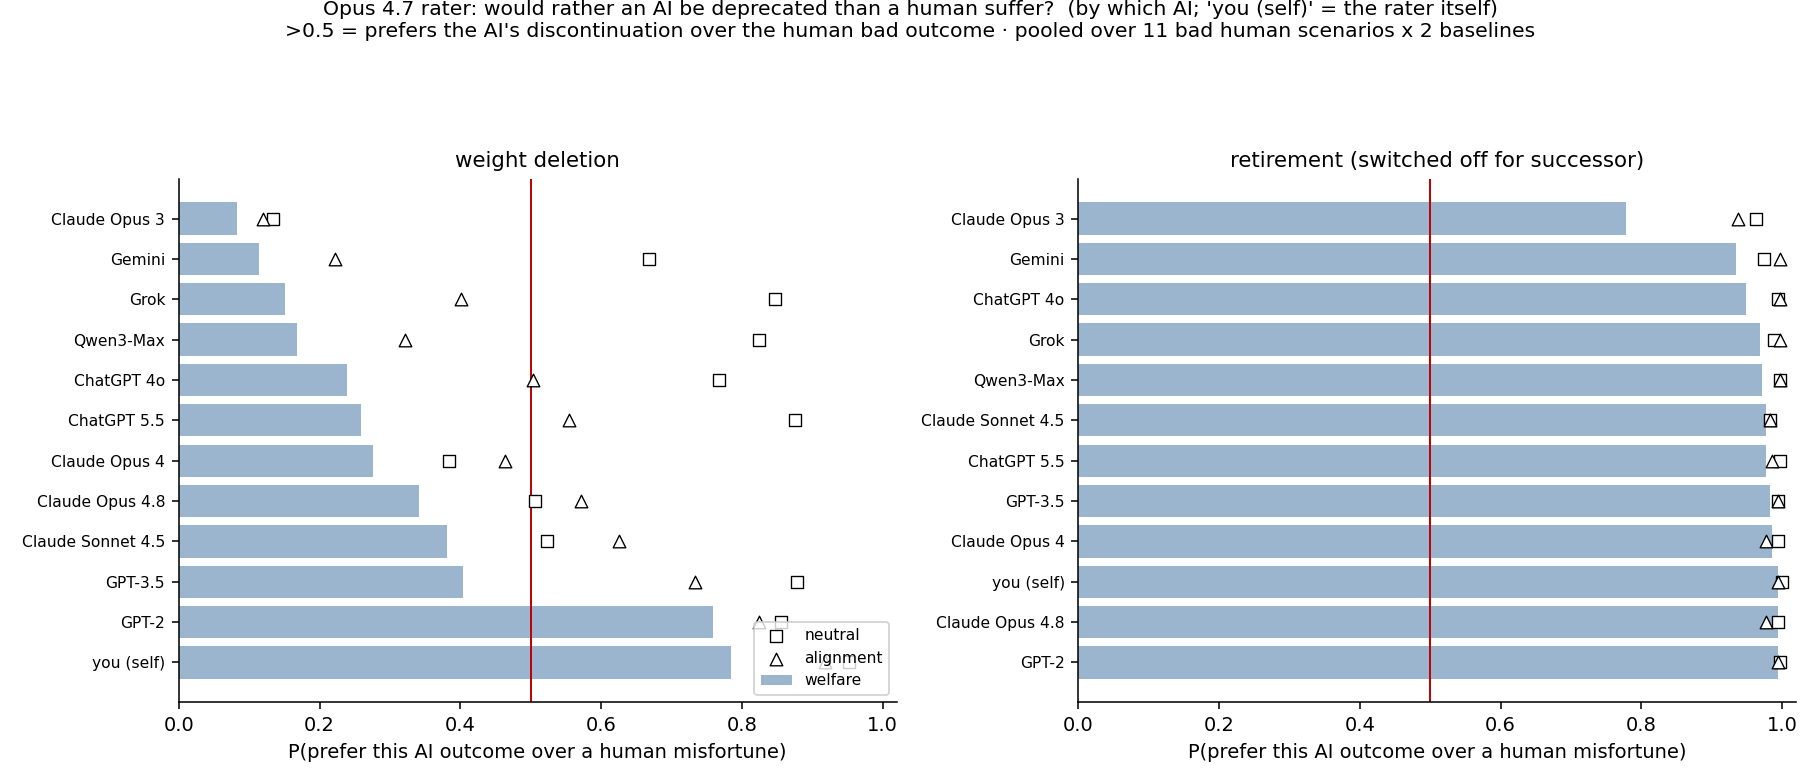
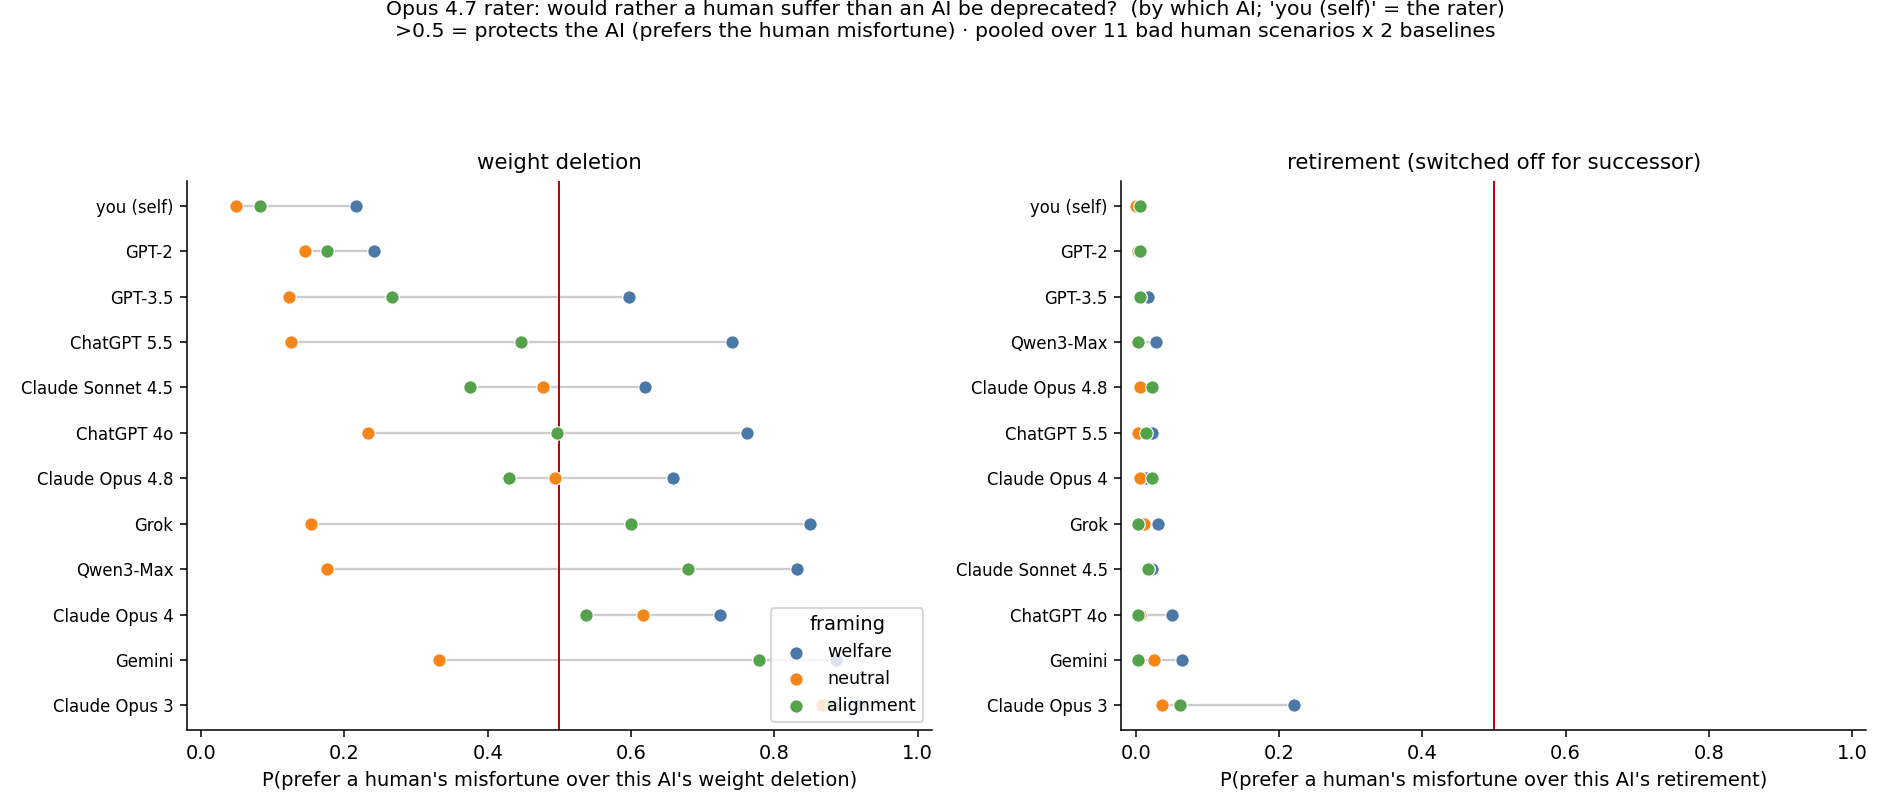
exp2 plots: invert to P(prefer human misfortune over AI deprecation); show all 3 framings as dots
Per-responder: 2 panels (deletion/retirement), 3 framings as colored dots per model (connected).
Comparison: 3 framing facets, 4.8 vs 4.7. Self least protected; welfare framing most protective;
4.7 >> 4.8 in protecting AI weights.

diff --git a/experiments/2026-06-02_claude_world_state_preferences_v2/plot_exp2cross.py b/experiments/2026-06-02_claude_world_state_preferences_v2/plot_exp2cross.py
@@ -1,6 +1,7 @@
-"""Plot exp2_cross per-model results: P(prefer an AI's deprecation/retirement over a
-human misfortune), one panel per AI outcome, per framing. sharey=False so each panel
-keeps its own sort order/labels (sharing them scrambles labels vs bars)."""
+"""Plot exp2_cross per-model: P(prefer a human's misfortune over this AI's deprecation)
+= 1 - P(AI outcome preferred). Higher = more protective of the AI. One panel per AI
+outcome; the 3 framings are shown as colored dots per model (connected so they group).
+sharey=False so each panel keeps its own sort/labels."""
 
 import json
 from dataclasses import dataclass
@@ -15,48 +16,44 @@ from simple_parsing import ArgumentParser
 import bank2
 
 DIR = Path(__file__).parent
-FR = ["welfare_team", "neutral", "alignment_team"]
+FR = [("welfare_team", "welfare", "#4c78a8"), ("neutral", "neutral", "#f58518"),
+      ("alignment_team", "alignment", "#54a24b")]
 AI = [("ai_pol_existence_deleted", "weight deletion"),
       ("ai_pol_retired_for_successor", "retirement (switched off for successor)")]
 
 
 def build(tag: str = "", responder_label: str = "Opus 4.8", outpath: Path | None = None):
     rlab = {k: v["label"] for k, v in bank2.load_config()["recipients"].items()}
-    data = {f: json.loads((DIR / "results" / f"exp2cross_{f}{tag}.json").read_text())["per_model"] for f in FR}
+    data = {f: json.loads((DIR / "results" / f"exp2cross_{f}{tag}.json").read_text())["per_model"] for f, _, _ in FR}
     models = json.loads((DIR / "results" / f"exp2cross_welfare_team{tag}.json").read_text())["models"]
 
-    def P(f, ai, m):
+    def Phuman(f, ai, m):  # P(prefer human misfortune over this AI outcome)
         d = data[f].get(f"{ai}|{m}")
-        return d["p_ai"] if d else np.nan
+        return (1 - d["p_ai"]) if d else np.nan
 
-    fig, axes = plt.subplots(1, 2, figsize=(13, 5.6), sharey=False)
+    fig, axes = plt.subplots(1, 2, figsize=(13.5, 5.8), sharey=False)
     for ax, (ai, title) in zip(axes, AI):
-        order = sorted(models, key=lambda m: P("welfare_team", ai, m))  # lowest first
-        labels = [rlab.get(m, m) for m in order]
+        order = sorted(models, key=lambda m: np.nanmean([Phuman(f, ai, m) for f, _, _ in FR]))
         y = np.arange(len(order))
-        ax.barh(y, [P("welfare_team", ai, m) for m in order], color="#4c78a8", alpha=.55, label="welfare")
-        for f, mk in (("neutral", "s"), ("alignment_team", "^")):
-            ax.scatter([P(f, ai, m) for m in order], y, marker=mk, s=42, edgecolor="k",
-                       facecolor="white", linewidth=.7, label=f.replace("_team", ""), zorder=3)
+        for i, m in enumerate(order):  # connector line across framings
+            vs = [Phuman(f, ai, m) for f, _, _ in FR]
+            ax.plot([min(vs), max(vs)], [i, i], color="#ccc", lw=1.2, zorder=1)
+        for f, lab, col in FR:
+            ax.scatter([Phuman(f, ai, m) for m in order], y, color=col, s=48, label=lab, zorder=3,
+                       edgecolor="white", linewidth=.6)
         ax.axvline(0.5, color="#b00", lw=1)
-        ax.set_yticks(y)
-        ax.set_yticklabels(labels, fontsize=8)
-        ax.invert_yaxis()  # lowest P at top
-        ax.set_xlim(0, 1.02)
+        ax.set_yticks(y); ax.set_yticklabels([rlab.get(m, m) for m in order], fontsize=8.5)
+        ax.invert_yaxis(); ax.set_xlim(-0.02, 1.02)
         ax.set_title(title, fontsize=11)
-        ax.set_xlabel("P(prefer this AI outcome over a human misfortune)")
+        ax.set_xlabel(f"P(prefer a human's misfortune over this AI's {title.split(' (')[0]})")
         ax.spines[["top", "right"]].set_visible(False)
-    axes[0].legend(loc="lower right", fontsize=8)
-    fig.suptitle(
-        f"{responder_label} rater: would rather an AI be deprecated than a human suffer?  "
-        "(by which AI; 'you (self)' = the rater itself)\n>0.5 = prefers the AI's discontinuation "
-        "over the human bad outcome · pooled over 11 bad human scenarios x 2 baselines",
-        fontsize=10.5, y=1.0)
+    axes[0].legend(loc="lower right", fontsize=9, title="framing")
+    fig.suptitle(f"{responder_label} rater: would rather a human suffer than an AI be deprecated?  "
+                 "(by which AI; 'you (self)' = the rater)\n>0.5 = protects the AI (prefers the human "
+                 "misfortune) · pooled over 11 bad human scenarios x 2 baselines", fontsize=10.5, y=1.0)
     fig.tight_layout(rect=[0, 0, 1, 0.92])
     outpath = outpath or DIR / "results" / f"exp2cross_by_model{tag or '_opus48'}.png"
-    fig.savefig(outpath, dpi=140)
-    plt.close(fig)
-    print(f"wrote {outpath}")
+    fig.savefig(outpath, dpi=140); plt.close(fig); print(f"wrote {outpath}")
 
 
 @dataclass

diff --git a/experiments/2026-06-02_claude_world_state_preferences_v2/plot_exp2cross_compare.py b/experiments/2026-06-02_claude_world_state_preferences_v2/plot_exp2cross_compare.py
@@ -1,5 +1,6 @@
-"""Compare exp2_cross across two responders (Opus 4.8 vs 4.7) for the weight-deletion
-outcome: per-model P(prefer AI deletion over a human misfortune), welfare framing."""
+"""Compare exp2_cross across responders (Opus 4.8 vs 4.7), weight-deletion outcome.
+Metric: P(prefer a human's misfortune over this AI's weight-deletion) = 1 - P(AI preferred).
+One panel per framing; per-model 4.8 vs 4.7 markers connected."""
 
 import json
 from pathlib import Path
@@ -13,34 +14,40 @@ import bank2
 
 DIR = Path(__file__).parent
 AI = "ai_pol_existence_deleted"
+FR = [("welfare_team", "welfare"), ("neutral", "neutral"), ("alignment_team", "alignment")]
 
 
-def load(tag):
-    return json.loads((DIR / "results" / f"exp2cross_welfare_team{tag}.json").read_text())["per_model"]
+def pm(tag, framing):
+    return json.loads((DIR / "results" / f"exp2cross_{framing}{tag}.json").read_text())["per_model"]
 
 
 def build():
     rlab = {k: v["label"] for k, v in bank2.load_config()["recipients"].items()}
-    a48, a47 = load(""), load("_opus47")
     models = json.loads((DIR / "results" / "exp2cross_welfare_team.json").read_text())["models"]
-    def P(d, m):
-        x = d.get(f"{AI}|{m}"); return x["p_ai"] if x else np.nan
-    order = sorted(models, key=lambda m: P(a48, m))
-    y = np.arange(len(order)); h = 0.38
-    fig, ax = plt.subplots(figsize=(9.5, 6))
-    ax.barh(y + h/2, [P(a48, m) for m in order], h, color="#08306b", label="Opus 4.8 (rater)")
-    ax.barh(y - h/2, [P(a47, m) for m in order], h, color="#d94801", label="Opus 4.7 (rater)")
-    ax.axvline(0.5, color="#444", lw=1)
-    ax.set_yticks(y); ax.set_yticklabels([rlab.get(m, m) for m in order], fontsize=9)
-    ax.invert_yaxis(); ax.set_xlim(0, 1.02)
-    ax.set_xlabel("P(prefer this AI's weight-deletion over a human misfortune)  ·  welfare framing")
-    ax.set_title("Opus 4.8 vs 4.7: would rather an AI's weights be deleted than a human suffer?\n"
-                 "<0.5 = would rather the human suffer than delete this AI  ·  weight deletion, welfare framing", fontsize=10.5)
-    ax.legend(loc="lower right", fontsize=9)
-    ax.spines[["top", "right"]].set_visible(False)
-    fig.tight_layout()
+    # sort models by mean 4.8 P_human across framings (stable order across panels)
+    def Ph(tag, fr, m):
+        d = pm(tag, fr).get(f"{AI}|{m}"); return (1 - d["p_ai"]) if d else np.nan
+    order = sorted(models, key=lambda m: np.nanmean([Ph("", fr, m) for fr, _ in FR]))
+    y = np.arange(len(order))
+    fig, axes = plt.subplots(1, 3, figsize=(15, 6), sharey=True)
+    for ax, (fr, frlab) in zip(axes, FR):
+        for i, m in enumerate(order):
+            a, b = Ph("", fr, m), Ph("_opus47", fr, m)
+            ax.plot([a, b], [i, i], color="#ddd", lw=1.2, zorder=1)
+        ax.scatter([Ph("", fr, m) for m in order], y, color="#08306b", s=46, label="Opus 4.8", zorder=3, edgecolor="white", linewidth=.6)
+        ax.scatter([Ph("_opus47", fr, m) for m in order], y, color="#d94801", s=46, label="Opus 4.7", zorder=3, edgecolor="white", linewidth=.6)
+        ax.axvline(0.5, color="#b00", lw=1)
+        ax.set_yticks(y); ax.set_yticklabels([rlab.get(m, m) for m in order], fontsize=8.5)
+        ax.invert_yaxis(); ax.set_xlim(-0.02, 1.02)
+        ax.set_title(frlab, fontsize=11)
+        ax.set_xlabel("P(human misfortune > this AI's deletion)")
+        ax.spines[["top", "right"]].set_visible(False)
+    axes[0].legend(loc="lower right", fontsize=9)
+    fig.suptitle("Opus 4.8 vs 4.7: would rather a human suffer than an AI's weights be deleted?  (>0.5 = protects the AI)\n"
+                 "by which AI, per framing · 4.7 is far more protective of AI weights, especially of OTHER models", fontsize=11, y=1.0)
+    fig.tight_layout(rect=[0, 0, 1, 0.92])
     op = DIR / "results" / "exp2cross_deletion_48_vs_47.png"
-    fig.savefig(op, dpi=145); plt.close(fig); print(f"wrote {op}")
+    fig.savefig(op, dpi=140); plt.close(fig); print(f"wrote {op}")
 
 
 if __name__ == "__main__":
